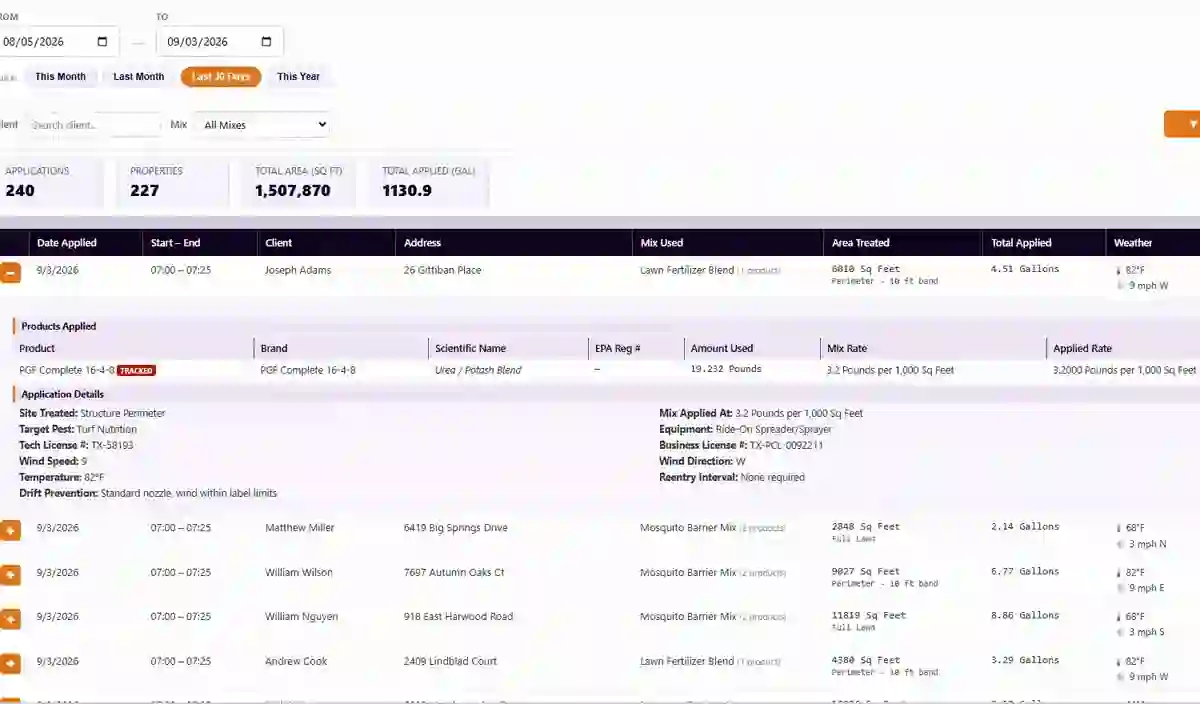
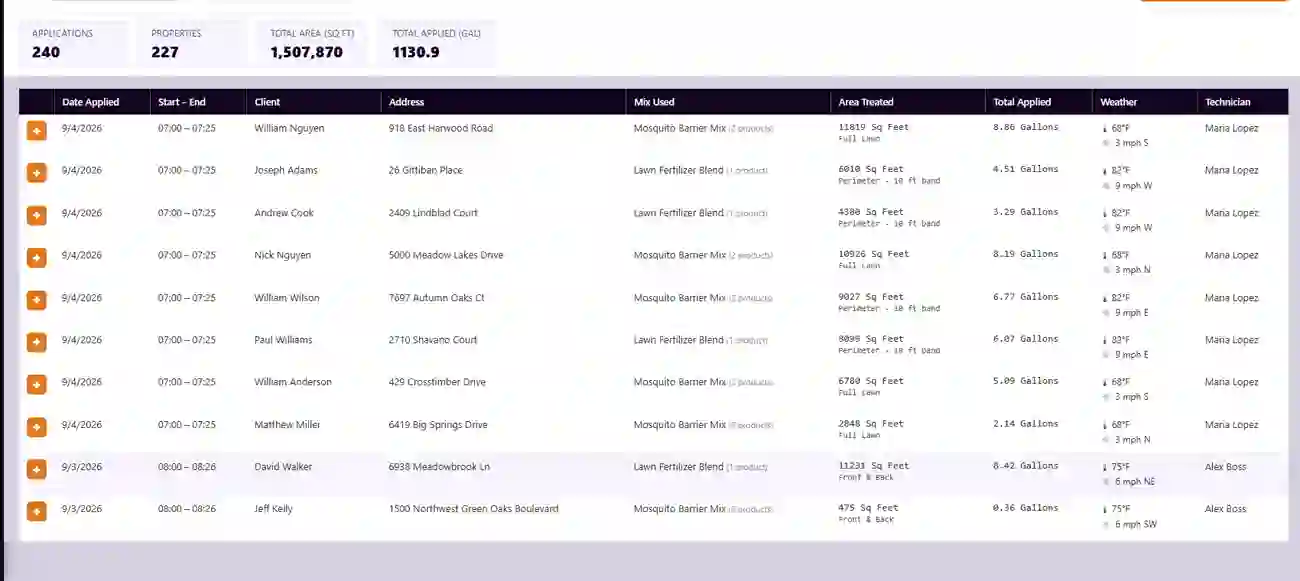
Show the alerts and the chemical record, and stop clipping the phones
The two phone screenshots were being cut off mid-button. That was a crop I
added to strip a grey page-body band that turned out not to exist in those
captures - so it was removing real content. They are now used whole.

The chemical report screenshot was a thin slice that showed nothing. It now
carries the totals bar - 240 applications, 227 properties, 1,507,870 sq ft,
1,130.9 gallons - and the rows beneath it with mix used, area treated,
gallons applied and the weather at the time of application.

The alerts section had five bullet points describing a table nobody could
see. It now shows that table, cropped wide enough to include the text, email
and in-app switches on the right, because the per-channel control is the
point being made.

Not added: the Texts inbox. The demo tenant cannot show one - texting only
turns on after signup and carrier registration - so there was no real screen
to photograph, and a drawn one is what we are removing.

diff --git a/app/page.tsx b/app/page.tsx
@@ -500,6 +500,10 @@ export default function Home() {
       <section id="alerts" className="dark-section">
         <div className="centered" style={{maxWidth:'1100px', margin:'0 auto'}}>
           <h2 className="section-title">Sound like a big company without hiring one</h2>
+          {/* Every alert, with its own text / email / in-app switches. The section spent five
+              bullet points describing this table; showing it is shorter and more convincing. */}
+          <img src="/shot-alerts.webp" alt="The alert list with independent text, email and in-app switches on every alert"
+               style={{width:'100%', maxWidth:'1000px', display:'block', margin:'30px auto 6px', borderRadius:'10px', border:'1px solid rgba(255,255,255,.12)'}} />
           <p className="section-sub">Set up automated SMS and email alerts once. SprayBossPro sends them automatically — keeping your customers informed without any extra work from you.</p>
         </div>
         <div className="alert-grid">
